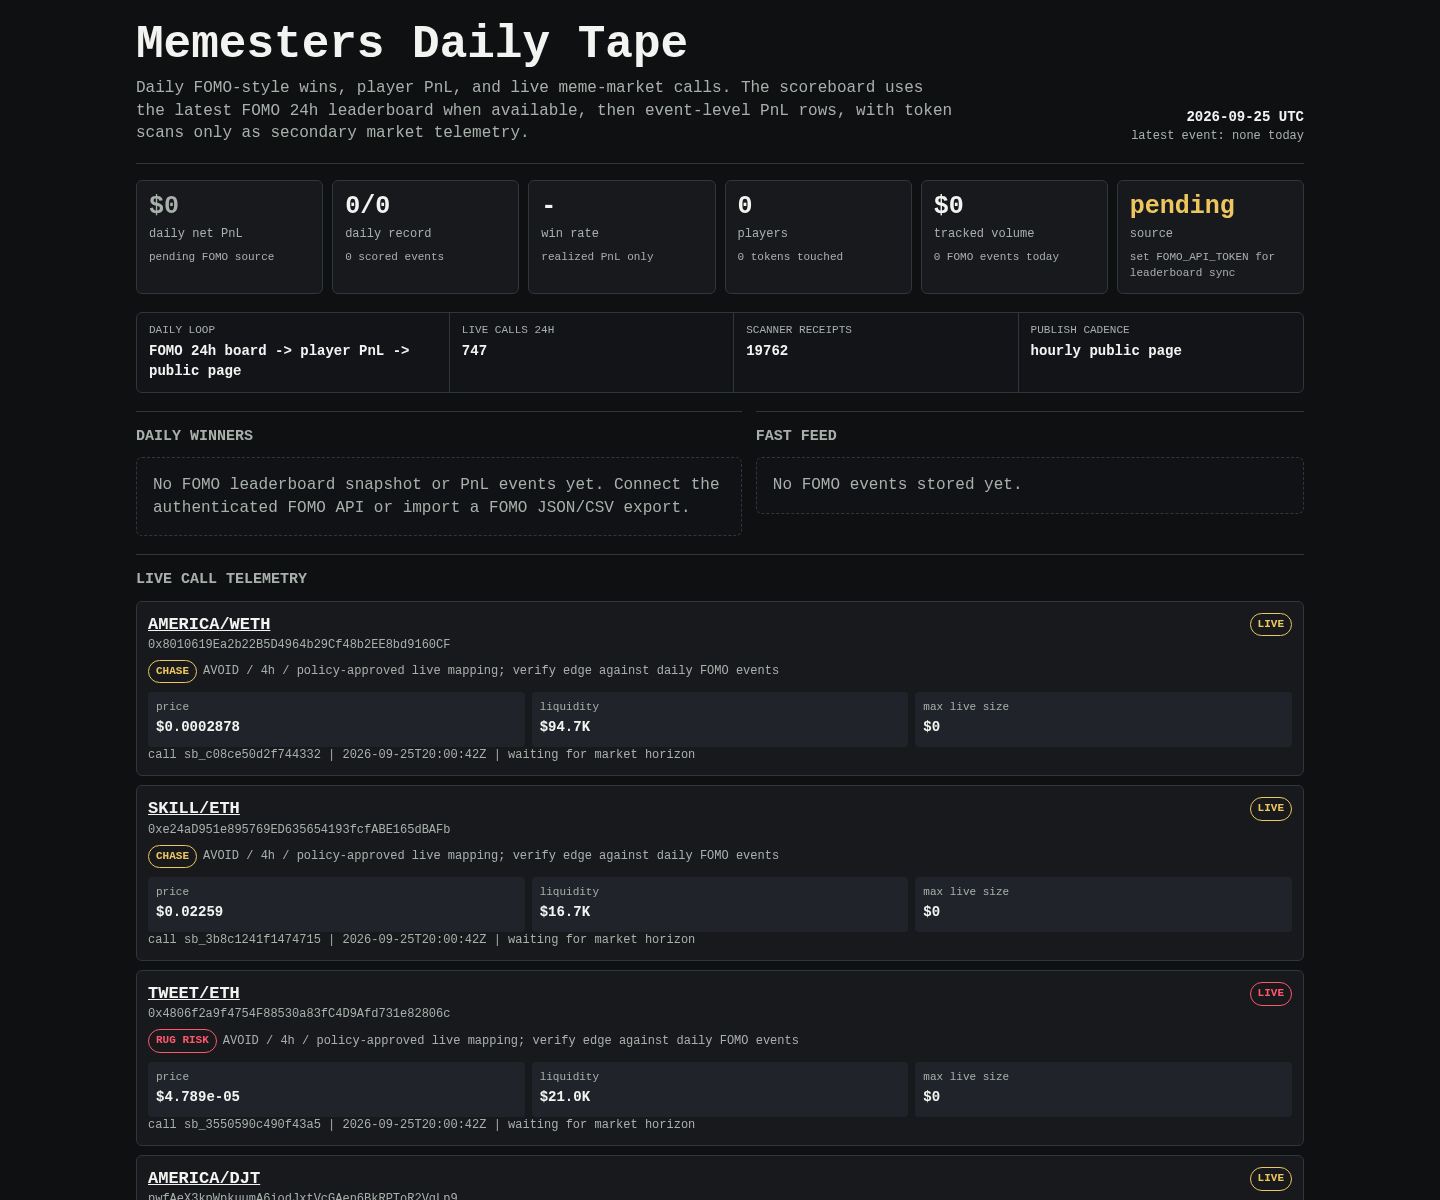
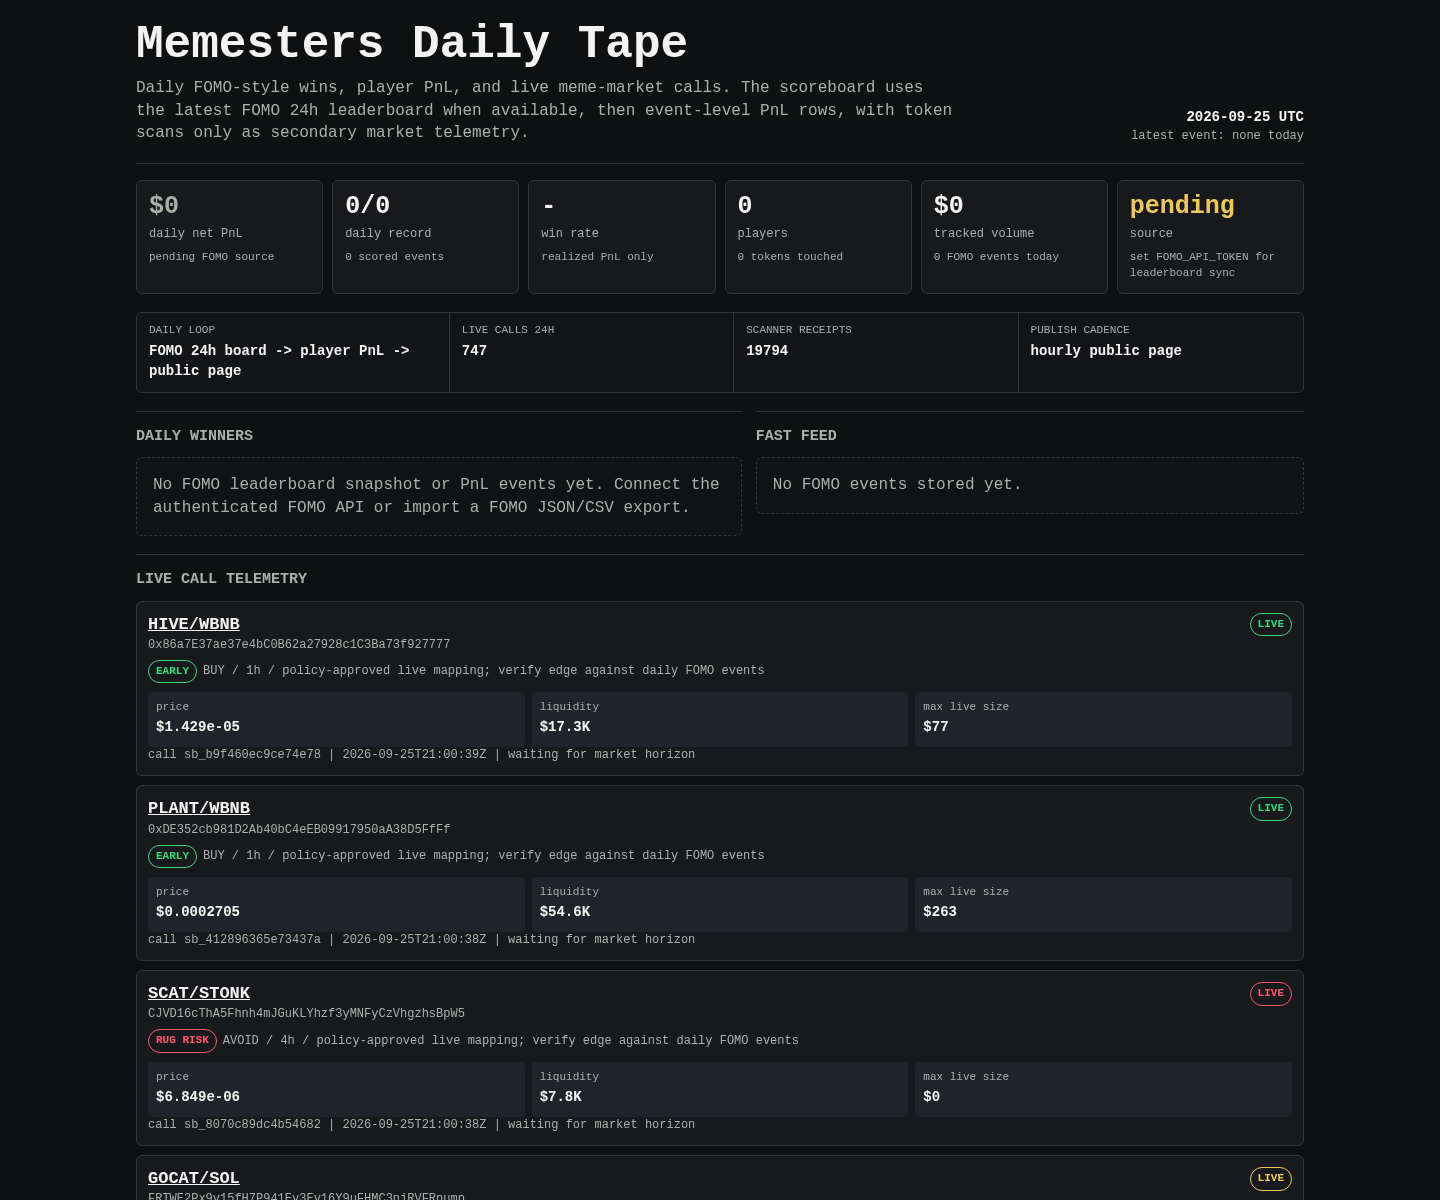
Update Memesters scoreboard

diff --git a/memesters/index.html b/memesters/index.html
@@ -150,7 +150,7 @@
     <div class="rail" aria-label="live operating loop">
       <div><span>daily loop</span><b>FOMO 24h board -> player PnL -> public page</b></div>
       <div><span>live calls 24h</span><b>747</b></div>
-      <div><span>scanner receipts</span><b>19762</b></div>
+      <div><span>scanner receipts</span><b>19794</b></div>
       <div><span>publish cadence</span><b>hourly public page</b></div>
     </div>
 
@@ -171,134 +171,8 @@
     <article class="receipt">
       <div class="receipt-head">
         <div>
-          <div class="pair"><a href="https://dexscreener.com/robinhood/0xf31f3c126b6e97cc3813171c3ca1881917be73a033d3fcbaf07889bc075bf6e7">AMERICA/WETH</a></div>
-          <div class="addr">0x8010619Ea2b22B5D4964b29Cf48b2EE8bd9160CF</div>
-          <div class="addr policy-line">
-            <span class="badge chase">CHASE</span>
-            <span>AVOID / 4h / policy-approved live mapping; verify edge against daily FOMO events</span>
-          </div>
-        </div>
-        <span class="badge chase">LIVE</span>
-      </div>
-      <div class="receipt-grid">
-        <div class="kv"><span>price</span><b>$0.0002878</b></div>
-        <div class="kv"><span>liquidity</span><b>$94.7K</b></div>
-        <div class="kv"><span>max live size</span><b>$0</b></div>
-      </div>
-      <div class="outcomes">call sb_c08ce50d2f744332 | 2026-09-25T20:00:42Z | waiting for market horizon</div>
-    </article>
-    
-
-    <article class="receipt">
-      <div class="receipt-head">
-        <div>
-          <div class="pair"><a href="https://dexscreener.com/ethereum/0xffbb02f06eaf12c880d126ffecc634949335c1fb4137af6e91f56f45ce651312">SKILL/ETH</a></div>
-          <div class="addr">0xe24aD951e895769ED635654193fcfABE165dBAFb</div>
-          <div class="addr policy-line">
-            <span class="badge chase">CHASE</span>
-            <span>AVOID / 4h / policy-approved live mapping; verify edge against daily FOMO events</span>
-          </div>
-        </div>
-        <span class="badge chase">LIVE</span>
-      </div>
-      <div class="receipt-grid">
-        <div class="kv"><span>price</span><b>$0.02259</b></div>
-        <div class="kv"><span>liquidity</span><b>$16.7K</b></div>
-        <div class="kv"><span>max live size</span><b>$0</b></div>
-      </div>
-      <div class="outcomes">call sb_3b8c1241f1474715 | 2026-09-25T20:00:42Z | waiting for market horizon</div>
-    </article>
-    
-
-    <article class="receipt">
-      <div class="receipt-head">
-        <div>
-          <div class="pair"><a href="https://dexscreener.com/robinhood/0xce5e049052f79b7904402d834f8b67bea33807c510fd3e2eede78e06c7308f60">TWEET/ETH</a></div>
-          <div class="addr">0x4806f2a9f4754F88530a83fC4D9Afd731e82806c</div>
-          <div class="addr policy-line">
-            <span class="badge rug-risk">RUG RISK</span>
-            <span>AVOID / 4h / policy-approved live mapping; verify edge against daily FOMO events</span>
-          </div>
-        </div>
-        <span class="badge rug-risk">LIVE</span>
-      </div>
-      <div class="receipt-grid">
-        <div class="kv"><span>price</span><b>$4.789e-05</b></div>
-        <div class="kv"><span>liquidity</span><b>$21.0K</b></div>
-        <div class="kv"><span>max live size</span><b>$0</b></div>
-      </div>
-      <div class="outcomes">call sb_3550590c490f43a5 | 2026-09-25T20:00:42Z | waiting for market horizon</div>
-    </article>
-    
-
-    <article class="receipt">
-      <div class="receipt-head">
-        <div>
-          <div class="pair"><a href="https://dexscreener.com/solana/g8rsvz14jpy64u599nrvhzkza1tdkagnqdualako6zxe">AMERICA/DJT</a></div>
-          <div class="addr">pwfAeX3kpWpkuumA6iodJxtVcGAen6BkRPToR2VqLp9</div>
-          <div class="addr policy-line">
-            <span class="badge chase">CHASE</span>
-            <span>AVOID / 4h / policy-approved live mapping; verify edge against daily FOMO events</span>
-          </div>
-        </div>
-        <span class="badge chase">LIVE</span>
-      </div>
-      <div class="receipt-grid">
-        <div class="kv"><span>price</span><b>$0.0007594</b></div>
-        <div class="kv"><span>liquidity</span><b>$91.2K</b></div>
-        <div class="kv"><span>max live size</span><b>$0</b></div>
-      </div>
-      <div class="outcomes">call sb_b611704b82b84def | 2026-09-25T20:00:42Z | waiting for market horizon</div>
-    </article>
-    
-
-    <article class="receipt">
-      <div class="receipt-head">
-        <div>
-          <div class="pair"><a href="https://dexscreener.com/solana/5hd5o7cwebqwq7sxtktybf9n5a9abae8jh1xbq31aedk">UNPEG/SOL</a></div>
-          <div class="addr">FDfxBRSc3MraBGcGmkHgfkvwHTUDMEA2hRV2cRNbpeg</div>
-          <div class="addr policy-line">
-            <span class="badge chase">CHASE</span>
-            <span>AVOID / 4h / policy-approved live mapping; verify edge against daily FOMO events</span>
-          </div>
-        </div>
-        <span class="badge chase">LIVE</span>
-      </div>
-      <div class="receipt-grid">
-        <div class="kv"><span>price</span><b>$0.0001553</b></div>
-        <div class="kv"><span>liquidity</span><b>$37.6K</b></div>
-        <div class="kv"><span>max live size</span><b>$0</b></div>
-      </div>
-      <div class="outcomes">call sb_45f0a1ec98a44345 | 2026-09-25T20:00:41Z | waiting for market horizon</div>
-    </article>
-    
-
-    <article class="receipt">
-      <div class="receipt-head">
-        <div>
-          <div class="pair"><a href="https://dexscreener.com/solana/cmpgadcnqauiupjeyed4s7nwfyukkpkskf6ywpjcvnoj">Cassie/SOL</a></div>
-          <div class="addr">1i52VY1McWthhxXQeL37cCNUUgBZCic9NcagRKJeJgt</div>
-          <div class="addr policy-line">
-            <span class="badge rug-risk">RUG RISK</span>
-            <span>AVOID / 4h / policy-approved live mapping; verify edge against daily FOMO events</span>
-          </div>
-        </div>
-        <span class="badge rug-risk">LIVE</span>
-      </div>
-      <div class="receipt-grid">
-        <div class="kv"><span>price</span><b>$1.35e-05</b></div>
-        <div class="kv"><span>liquidity</span><b>$8.7K</b></div>
-        <div class="kv"><span>max live size</span><b>$0</b></div>
-      </div>
-      <div class="outcomes">call sb_dd697846ad884d6f | 2026-09-25T20:00:41Z | waiting for market horizon</div>
-    </article>
-    
-
-    <article class="receipt">
-      <div class="receipt-head">
-        <div>
-          <div class="pair"><a href="https://dexscreener.com/solana/2zls6accakxfskppp6x8vevaqaltbhjpbvtg87etejwv">Cassie/SOL</a></div>
-          <div class="addr">Hv5r1v7d4yTbQMwokrhs2zAMWvebVdzE33vqft8gUXob</div>
+          <div class="pair"><a href="https://dexscreener.com/bsc/0x14a4729d797b7c00f3eef8f4ef4877b19e21a7df">HIVE/WBNB</a></div>
+          <div class="addr">0x86a7E37ae37e4bC0B62a27928c1C3Ba73f927777</div>
           <div class="addr policy-line">
             <span class="badge early">EARLY</span>
             <span>BUY / 1h / policy-approved live mapping; verify edge against daily FOMO events</span>
@@ -307,19 +181,19 @@
         <span class="badge early">LIVE</span>
       </div>
       <div class="receipt-grid">
-        <div class="kv"><span>price</span><b>$5.371e-05</b></div>
-        <div class="kv"><span>liquidity</span><b>$19.4K</b></div>
-        <div class="kv"><span>max live size</span><b>$99</b></div>
+        <div class="kv"><span>price</span><b>$1.429e-05</b></div>
+        <div class="kv"><span>liquidity</span><b>$17.3K</b></div>
+        <div class="kv"><span>max live size</span><b>$77</b></div>
       </div>
-      <div class="outcomes">call sb_4e4b6694d9704504 | 2026-09-25T20:00:41Z | waiting for market horizon</div>
+      <div class="outcomes">call sb_b9f460ec9ce74e78 | 2026-09-25T21:00:39Z | waiting for market horizon</div>
     </article>
     
 
     <article class="receipt">
       <div class="receipt-head">
         <div>
-          <div class="pair"><a href="https://dexscreener.com/robinhood/0xa85c7318d47b78524cec217a6007ba19a6052a64deac0388a6607581e2f5a130">RICH/ETH</a></div>
-          <div class="addr">0x7C99Bb3E9A940b7F095d898bDA3296ED9d9A3D48</div>
+          <div class="pair"><a href="https://dexscreener.com/bsc/0x07315866673b2a4b6fe6132ce797f9db373eb4d1">PLANT/WBNB</a></div>
+          <div class="addr">0xDE352cb981D2Ab40bC4eEB09917950aA38D5FfFf</div>
           <div class="addr policy-line">
             <span class="badge early">EARLY</span>
             <span>BUY / 1h / policy-approved live mapping; verify edge against daily FOMO events</span>
@@ -328,19 +202,19 @@
         <span class="badge early">LIVE</span>
       </div>
       <div class="receipt-grid">
-        <div class="kv"><span>price</span><b>$5.856e-05</b></div>
-        <div class="kv"><span>liquidity</span><b>$23.3K</b></div>
-        <div class="kv"><span>max live size</span><b>$134</b></div>
+        <div class="kv"><span>price</span><b>$0.0002705</b></div>
+        <div class="kv"><span>liquidity</span><b>$54.6K</b></div>
+        <div class="kv"><span>max live size</span><b>$263</b></div>
       </div>
-      <div class="outcomes">call sb_5d9c4210ed8b4eb1 | 2026-09-25T20:00:41Z | waiting for market horizon</div>
+      <div class="outcomes">call sb_412896365e73437a | 2026-09-25T21:00:38Z | waiting for market horizon</div>
     </article>
     
 
     <article class="receipt">
       <div class="receipt-head">
         <div>
-          <div class="pair"><a href="https://dexscreener.com/solana/fxsdxa23gjmafnf6kny2hqf9vd7tmmhn91jucgkm9ajg">PILLS/SOL</a></div>
-          <div class="addr">4D3HChvc4WNbw5Z6HSQaWKsisqFTk4GSiMepEs3Lpump</div>
+          <div class="pair"><a href="https://dexscreener.com/solana/j7cdkrb3d1f3tshusfytne7lwn2ba2c1siaak13jinxs">SCAT/STONK</a></div>
+          <div class="addr">CJVD16cThA5Fhnh4mJGuKLYhzf3yMNFyCzVhgzhsBpW5</div>
           <div class="addr policy-line">
             <span class="badge rug-risk">RUG RISK</span>
             <span>AVOID / 4h / policy-approved live mapping; verify edge against daily FOMO events</span>
@@ -349,19 +223,61 @@
         <span class="badge rug-risk">LIVE</span>
       </div>
       <div class="receipt-grid">
-        <div class="kv"><span>price</span><b>$1.323e-05</b></div>
-        <div class="kv"><span>liquidity</span><b>$8.5K</b></div>
+        <div class="kv"><span>price</span><b>$6.849e-06</b></div>
+        <div class="kv"><span>liquidity</span><b>$7.8K</b></div>
         <div class="kv"><span>max live size</span><b>$0</b></div>
       </div>
-      <div class="outcomes">call sb_611b93ecc8da45c9 | 2026-09-25T19:45:30Z | waiting for market horizon</div>
+      <div class="outcomes">call sb_8070c89dc4b54682 | 2026-09-25T21:00:38Z | waiting for market horizon</div>
     </article>
     
 
     <article class="receipt">
       <div class="receipt-head">
         <div>
-          <div class="pair"><a href="https://dexscreener.com/robinhood/0xe133ae66a5b8c52ddbc0dc864478fe6ef22d50cf783805aab48e2147d4e4305e">FOOMIES/ETH</a></div>
-          <div class="addr">0xC388F08d598F01e3Ae6f5932fD910C3AA3F57FF7</div>
+          <div class="pair"><a href="https://dexscreener.com/solana/8hp9uyhvgx8t8baml6afdiehmmqvulebbiemc76regkv">GOCAT/SOL</a></div>
+          <div class="addr">FRTWE2Px9v15fH7P941Ey3Ey16Y9uFHMC3njRVFRpump</div>
+          <div class="addr policy-line">
+            <span class="badge chase">CHASE</span>
+            <span>AVOID / 4h / policy-approved live mapping; verify edge against daily FOMO events</span>
+          </div>
+        </div>
+        <span class="badge chase">LIVE</span>
+      </div>
+      <div class="receipt-grid">
+        <div class="kv"><span>price</span><b>$0.000161</b></div>
+        <div class="kv"><span>liquidity</span><b>$35.7K</b></div>
+        <div class="kv"><span>max live size</span><b>$0</b></div>
+      </div>
+      <div class="outcomes">call sb_6d5b8e6f4a7c4be0 | 2026-09-25T21:00:38Z | waiting for market horizon</div>
+    </article>
+    
+
+    <article class="receipt">
+      <div class="receipt-head">
+        <div>
+          <div class="pair"><a href="https://dexscreener.com/solana/2y6okhyvtgzqb8dczukxvzpxhtzayotojuayebbcyauj">$PLAY/SOL</a></div>
+          <div class="addr">12V1bCbgyt36opKRToPSaBkrXE9sSc96K9cNcAonpump</div>
+          <div class="addr policy-line">
+            <span class="badge chase">CHASE</span>
+            <span>AVOID / 4h / policy-approved live mapping; verify edge against daily FOMO events</span>
+          </div>
+        </div>
+        <span class="badge chase">LIVE</span>
+      </div>
+      <div class="receipt-grid">
+        <div class="kv"><span>price</span><b>$0.003743</b></div>
+        <div class="kv"><span>liquidity</span><b>$183.6K</b></div>
+        <div class="kv"><span>max live size</span><b>$0</b></div>
+      </div>
+      <div class="outcomes">call sb_3a3988c404104623 | 2026-09-25T21:00:38Z | waiting for market horizon</div>
+    </article>
+    
+
+    <article class="receipt">
+      <div class="receipt-head">
+        <div>
+          <div class="pair"><a href="https://dexscreener.com/solana/daldma7tgwuwe97y8nzpnrzkqgjsxwr4cz9a9q39seh3">SSTONKS/SOL</a></div>
+          <div class="addr">6e5Jwy4Gai8FHXLJ8FT8mEQ6qsQhAp5zwLsXje2Fpump</div>
           <div class="addr policy-line">
             <span class="badge rug-risk">RUG RISK</span>
             <span>AVOID / 4h / policy-approved live mapping; verify edge against daily FOMO events</span>
@@ -370,11 +286,95 @@
         <span class="badge rug-risk">LIVE</span>
       </div>
       <div class="receipt-grid">
-        <div class="kv"><span>price</span><b>$1.785e-05</b></div>
-        <div class="kv"><span>liquidity</span><b>$12.8K</b></div>
+        <div class="kv"><span>price</span><b>$2.517e-06</b></div>
+        <div class="kv"><span>liquidity</span><b>$2.6K</b></div>
         <div class="kv"><span>max live size</span><b>$0</b></div>
       </div>
-      <div class="outcomes">call sb_9a014f75d4404180 | 2026-09-25T19:45:30Z | waiting for market horizon</div>
+      <div class="outcomes">call sb_7a9bc2611ca44c27 | 2026-09-25T21:00:38Z | waiting for market horizon</div>
+    </article>
+    
+
+    <article class="receipt">
+      <div class="receipt-head">
+        <div>
+          <div class="pair"><a href="https://dexscreener.com/robinhood/0x51e503fa805a78b10863d90bfd83c1be5e4182eea1e78a8d4ab7658dd78e5246">AI/WETH</a></div>
+          <div class="addr">0x54C64506De52f00518Dd30292B8dAd4bCdb172c8</div>
+          <div class="addr policy-line">
+            <span class="badge chase">CHASE</span>
+            <span>AVOID / 4h / policy-approved live mapping; verify edge against daily FOMO events</span>
+          </div>
+        </div>
+        <span class="badge chase">LIVE</span>
+      </div>
+      <div class="receipt-grid">
+        <div class="kv"><span>price</span><b>$0.0001811</b></div>
+        <div class="kv"><span>liquidity</span><b>$68.3K</b></div>
+        <div class="kv"><span>max live size</span><b>$0</b></div>
+      </div>
+      <div class="outcomes">call sb_19fad08d3c584d1d | 2026-09-25T21:00:38Z | waiting for market horizon</div>
+    </article>
+    
+
+    <article class="receipt">
+      <div class="receipt-head">
+        <div>
+          <div class="pair"><a href="https://dexscreener.com/solana/7wcdc6xnuajkqe1ubq7lfgmn1p2hmbgleqj8q72mzsny">PHISH/XMR</a></div>
+          <div class="addr">FaWBF7djnFysJVHptwUAHLN7ZqM1BUis3QMnbsM1pump</div>
+          <div class="addr policy-line">
+            <span class="badge early">EARLY</span>
+            <span>BUY / 1h / policy-approved live mapping; verify edge against daily FOMO events</span>
+          </div>
+        </div>
+        <span class="badge early">LIVE</span>
+      </div>
+      <div class="receipt-grid">
+        <div class="kv"><span>price</span><b>$9.966e-05</b></div>
+        <div class="kv"><span>liquidity</span><b>$29.8K</b></div>
+        <div class="kv"><span>max live size</span><b>$357</b></div>
+      </div>
+      <div class="outcomes">call sb_9e188141c7c1419d | 2026-09-25T21:00:38Z | waiting for market horizon</div>
+    </article>
+    
+
+    <article class="receipt">
+      <div class="receipt-head">
+        <div>
+          <div class="pair"><a href="https://dexscreener.com/robinhood/0xaa19bed54189d2f29a0453eba2a9ca93a3f31d1107efc61f34d4d3ab83aa8e00">JEVV/AMZN</a></div>
+          <div class="addr">0x015E148989b3ead9cFADc11e33cADFfe1924FdcF</div>
+          <div class="addr policy-line">
+            <span class="badge chase">CHASE</span>
+            <span>AVOID / 4h / policy-approved live mapping; verify edge against daily FOMO events</span>
+          </div>
+        </div>
+        <span class="badge chase">LIVE</span>
+      </div>
+      <div class="receipt-grid">
+        <div class="kv"><span>price</span><b>$0.0009909</b></div>
+        <div class="kv"><span>liquidity</span><b>$76.9K</b></div>
+        <div class="kv"><span>max live size</span><b>$0</b></div>
+      </div>
+      <div class="outcomes">call sb_9d2b27829fbd4fdb | 2026-09-25T20:45:32Z | waiting for market horizon</div>
+    </article>
+    
+
+    <article class="receipt">
+      <div class="receipt-head">
+        <div>
+          <div class="pair"><a href="https://dexscreener.com/solana/harxwdy6afpaavfysak7zs9syu4g9ykxygfbjpykyk4z">COLONY/SOL</a></div>
+          <div class="addr">Gh6k5FNVRFk1eNUNhwLHbwf7854ioY16yZs9izUppump</div>
+          <div class="addr policy-line">
+            <span class="badge rug-risk">RUG RISK</span>
+            <span>AVOID / 4h / policy-approved live mapping; verify edge against daily FOMO events</span>
+          </div>
+        </div>
+        <span class="badge rug-risk">LIVE</span>
+      </div>
+      <div class="receipt-grid">
+        <div class="kv"><span>price</span><b>$2.216e-05</b></div>
+        <div class="kv"><span>liquidity</span><b>$11.8K</b></div>
+        <div class="kv"><span>max live size</span><b>$0</b></div>
+      </div>
+      <div class="outcomes">call sb_4de881682d504cf1 | 2026-09-25T20:45:32Z | waiting for market horizon</div>
     </article>
     
     </section>
